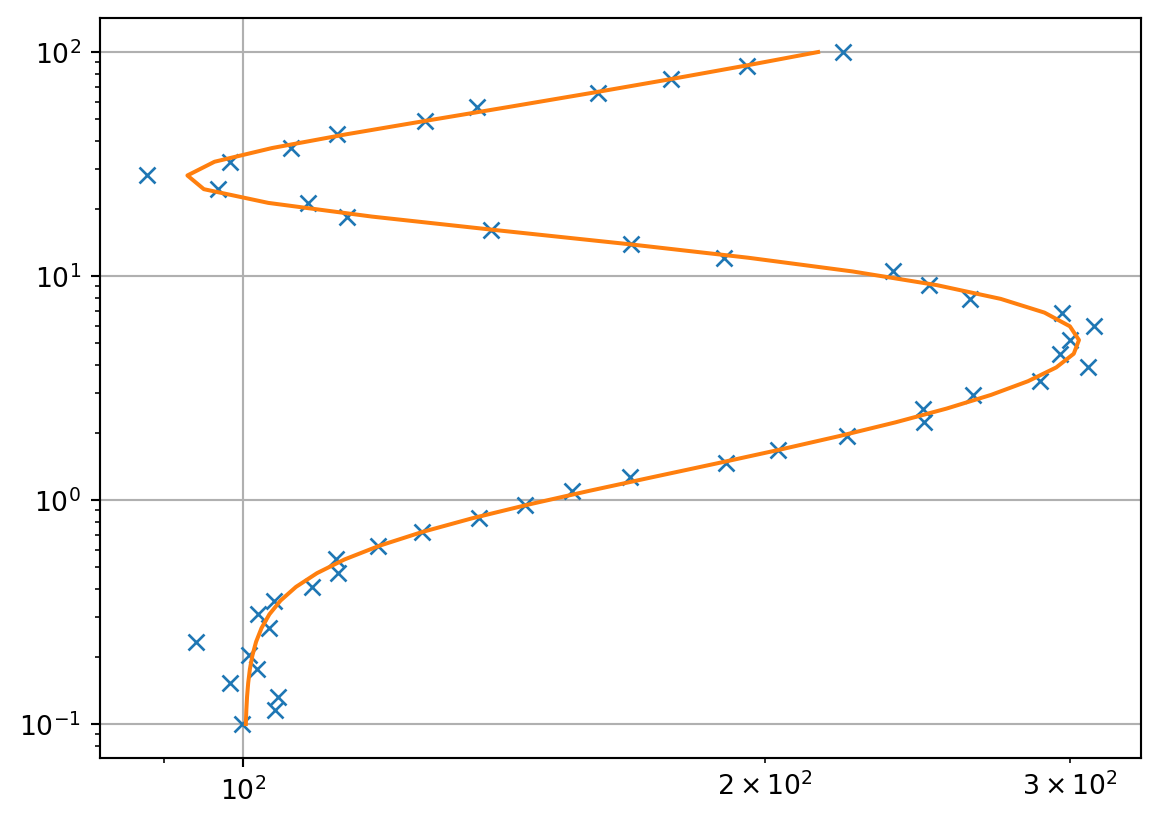
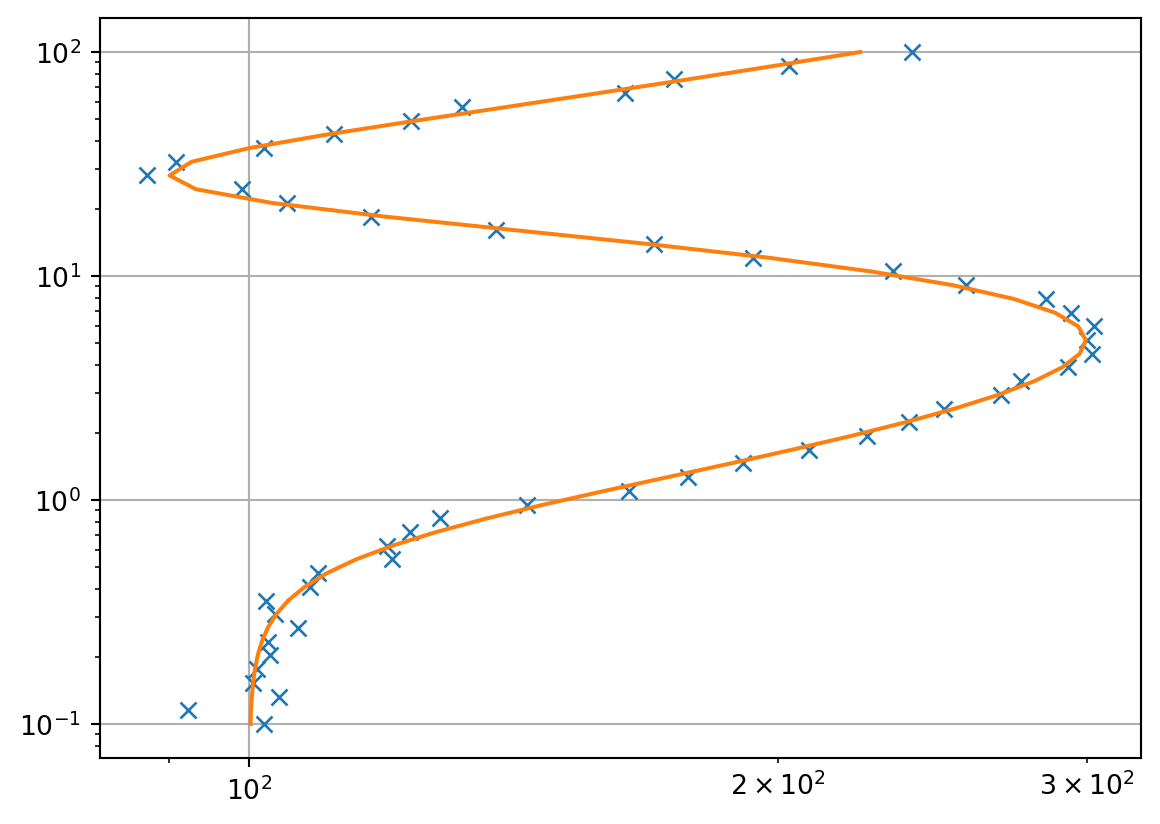
WIP

diff --git a/docs/index.html b/docs/index.html
@@ -1,5 +1,5 @@
 <!DOCTYPE html>
-<html xmlns="http://www.w3.org/1999/xhtml" lang="de" xml:lang="de"><head>
+<html xmlns="http://www.w3.org/1999/xhtml" lang="en" xml:lang="en"><head>
 
 <meta charset="utf-8">
 <meta name="generator" content="quarto-1.4.330">
@@ -7,6 +7,7 @@
 <meta name="viewport" content="width=device-width, initial-scale=1.0, user-scalable=yes">
 
 <meta name="author" content="Dr.&nbsp;Ralph-Uwe Börner">
+<meta name="dcterms.date" content="2023-08-23">
 
 <title>Potential Theory</title>
 <style>
@@ -87,16 +88,16 @@ pre > code.sourceCode > span > a:first-child::before { text-decoration: underlin
     "s"
   ],
   "language": {
-    "search-no-results-text": "Keine Treffer",
-    "search-matching-documents-text": "Treffer",
-    "search-copy-link-title": "Link in die Suche kopieren",
-    "search-hide-matches-text": "Zusätzliche Treffer verbergen",
-    "search-more-match-text": "weitere Treffer in diesem Dokument",
-    "search-more-matches-text": "weitere Treffer in diesem Dokument",
-    "search-clear-button-title": "Zurücksetzen",
-    "search-detached-cancel-button-title": "Abbrechen",
-    "search-submit-button-title": "Abschicken",
-    "search-label": "Suchen"
+    "search-no-results-text": "No results",
+    "search-matching-documents-text": "matching documents",
+    "search-copy-link-title": "Copy link to search",
+    "search-hide-matches-text": "Hide additional matches",
+    "search-more-match-text": "more match in this document",
+    "search-more-matches-text": "more matches in this document",
+    "search-clear-button-title": "Clear",
+    "search-detached-cancel-button-title": "Cancel",
+    "search-submit-button-title": "Submit",
+    "search-label": "Search"
   }
 }</script>
 
@@ -110,11 +111,11 @@ pre > code.sourceCode > span > a:first-child::before { text-decoration: underlin
   <header id="quarto-header" class="headroom fixed-top">
   <nav class="quarto-secondary-nav">
     <div class="container-fluid d-flex">
-      <button type="button" class="quarto-btn-toggle btn" data-bs-toggle="collapse" data-bs-target="#quarto-sidebar,#quarto-sidebar-glass" aria-controls="quarto-sidebar" aria-expanded="false" aria-label="Seitenleiste umschalten" onclick="if (window.quartoToggleHeadroom) { window.quartoToggleHeadroom(); }">
+      <button type="button" class="quarto-btn-toggle btn" data-bs-toggle="collapse" data-bs-target="#quarto-sidebar,#quarto-sidebar-glass" aria-controls="quarto-sidebar" aria-expanded="false" aria-label="Toggle sidebar navigation" onclick="if (window.quartoToggleHeadroom) { window.quartoToggleHeadroom(); }">
         <i class="bi bi-layout-text-sidebar-reverse"></i>
       </button>
         <nav class="quarto-page-breadcrumbs" aria-label="breadcrumb"><ol class="breadcrumb"><li class="breadcrumb-item"><a href="./index.html"><span class="chapter-number">1</span>&nbsp; <span class="chapter-title">Potential Theory</span></a></li></ol></nav>
-        <a class="flex-grow-1" role="button" data-bs-toggle="collapse" data-bs-target="#quarto-sidebar,#quarto-sidebar-glass" aria-controls="quarto-sidebar" aria-expanded="false" aria-label="Seitenleiste umschalten" onclick="if (window.quartoToggleHeadroom) { window.quartoToggleHeadroom(); }">      
+        <a class="flex-grow-1" role="button" data-bs-toggle="collapse" data-bs-target="#quarto-sidebar,#quarto-sidebar-glass" aria-controls="quarto-sidebar" aria-expanded="false" aria-label="Toggle sidebar navigation" onclick="if (window.quartoToggleHeadroom) { window.quartoToggleHeadroom(); }">      
         </a>
       <button type="button" class="btn quarto-search-button" aria-label="" onclick="window.quartoOpenSearch();">
         <i class="bi bi-search"></i>
@@ -133,7 +134,7 @@ pre > code.sourceCode > span > a:first-child::before { text-decoration: underlin
       </div>
         <div class="mt-2 flex-shrink-0 align-items-center">
         <div class="sidebar-search">
-        <div id="quarto-search" class="" title="Suchen"></div>
+        <div id="quarto-search" class="" title="Search"></div>
         </div>
         </div>
     <div class="sidebar-menu-container"> 
@@ -169,16 +170,16 @@ pre > code.sourceCode > span > a:first-child::before { text-decoration: underlin
 <div class="quarto-title-meta">
 
     <div>
-    <div class="quarto-title-meta-heading">Autor:in</div>
+    <div class="quarto-title-meta-heading">Author</div>
     <div class="quarto-title-meta-contents">
              <p>Dr.&nbsp;Ralph-Uwe Börner </p>
           </div>
   </div>
     
     <div>
-    <div class="quarto-title-meta-heading">Veröffentlichungsdatum</div>
+    <div class="quarto-title-meta-heading">Published</div>
     <div class="quarto-title-meta-contents">
-      <p class="date">23. August 2023</p>
+      <p class="date">August 23, 2023</p>
     </div>
   </div>
   
@@ -190,14 +191,14 @@ pre > code.sourceCode > span > a:first-child::before { text-decoration: underlin
 </header>
 
 <p>This is a Quarto book.</p>
-<div id="ee1986c1" class="cell" data-execution_count="1">
+<div id="87edc117" class="cell" data-execution_count="1">
 <div class="sourceCode cell-code" id="cb1"><pre class="sourceCode python code-with-copy"><code class="sourceCode python"><span id="cb1-1"><a href="#cb1-1" aria-hidden="true" tabindex="-1"></a><span class="im">import</span> numpy <span class="im">as</span> np</span>
 <span id="cb1-2"><a href="#cb1-2" aria-hidden="true" tabindex="-1"></a><span class="im">import</span> matplotlib.pyplot <span class="im">as</span> plt</span>
 <span id="cb1-3"><a href="#cb1-3" aria-hidden="true" tabindex="-1"></a><span class="im">import</span> pygimli <span class="im">as</span> pg</span>
 <span id="cb1-4"><a href="#cb1-4" aria-hidden="true" tabindex="-1"></a><span class="im">from</span> pygimli.frameworks.lsqrinversion <span class="im">import</span> LSQRInversion</span>
-<span id="cb1-5"><a href="#cb1-5" aria-hidden="true" tabindex="-1"></a><span class="im">from</span> pygimli.physics.ert <span class="im">import</span> VESModelling</span></code><button title="In die Zwischenablage kopieren" class="code-copy-button"><i class="bi"></i></button></pre></div>
+<span id="cb1-5"><a href="#cb1-5" aria-hidden="true" tabindex="-1"></a><span class="im">from</span> pygimli.physics.ert <span class="im">import</span> VESModelling</span></code><button title="Copy to Clipboard" class="code-copy-button"><i class="bi"></i></button></pre></div>
 </div>
-<div id="4a5e7f06" class="cell" data-execution_count="2">
+<div id="9180387e" class="cell" data-execution_count="2">
 <div class="sourceCode cell-code" id="cb2"><pre class="sourceCode python code-with-copy"><code class="sourceCode python"><span id="cb2-1"><a href="#cb2-1" aria-hidden="true" tabindex="-1"></a>nlay <span class="op">=</span> <span class="dv">4</span></span>
 <span id="cb2-2"><a href="#cb2-2" aria-hidden="true" tabindex="-1"></a>lam <span class="op">=</span> <span class="fl">200.0</span></span>
 <span id="cb2-3"><a href="#cb2-3" aria-hidden="true" tabindex="-1"></a>errPerc <span class="op">=</span> <span class="fl">3.0</span></span>
@@ -208,12 +209,12 @@ pre > code.sourceCode > span > a:first-child::before { text-decoration: underlin
 <span id="cb2-8"><a href="#cb2-8" aria-hidden="true" tabindex="-1"></a>synthk <span class="op">=</span> [<span class="fl">0.5</span>, <span class="fl">3.5</span>, <span class="fl">6.</span>]  <span class="co"># synthetic thickness (nlay-th layer is infinite)</span></span>
 <span id="cb2-9"><a href="#cb2-9" aria-hidden="true" tabindex="-1"></a>rhoa <span class="op">=</span> f(synthk<span class="op">+</span>synres)</span>
 <span id="cb2-10"><a href="#cb2-10" aria-hidden="true" tabindex="-1"></a>rhoa <span class="op">=</span> rhoa <span class="op">*</span> (pg.randn(<span class="bu">len</span>(rhoa)) <span class="op">*</span> errPerc <span class="op">/</span> <span class="fl">100.</span> <span class="op">+</span> <span class="fl">1.</span>)</span>
-<span id="cb2-11"><a href="#cb2-11" aria-hidden="true" tabindex="-1"></a>pg.plt.loglog(rhoa, ab2, <span class="st">"x-"</span>)<span class="op">;</span></span></code><button title="In die Zwischenablage kopieren" class="code-copy-button"><i class="bi"></i></button></pre></div>
+<span id="cb2-11"><a href="#cb2-11" aria-hidden="true" tabindex="-1"></a>pg.plt.loglog(rhoa, ab2, <span class="st">"x-"</span>)<span class="op">;</span></span></code><button title="Copy to Clipboard" class="code-copy-button"><i class="bi"></i></button></pre></div>
 <div class="cell-output cell-output-display">
 <p><img src="index_files/figure-html/cell-3-output-1.png" width="580" height="412"></p>
 </div>
 </div>
-<div id="d4f74f87" class="cell" data-execution_count="3">
+<div id="846691f0" class="cell" data-execution_count="3">
 <div class="sourceCode cell-code" id="cb3"><pre class="sourceCode python code-with-copy"><code class="sourceCode python"><span id="cb3-1"><a href="#cb3-1" aria-hidden="true" tabindex="-1"></a>tLog <span class="op">=</span> pg.trans.TransLog()</span>
 <span id="cb3-2"><a href="#cb3-2" aria-hidden="true" tabindex="-1"></a>inv <span class="op">=</span> LSQRInversion(fop<span class="op">=</span>f, verbose<span class="op">=</span><span class="va">False</span>)</span>
 <span id="cb3-3"><a href="#cb3-3" aria-hidden="true" tabindex="-1"></a>inv.LSQRiter <span class="op">=</span> <span class="dv">20</span></span>
@@ -233,57 +234,55 @@ pre > code.sourceCode > span > a:first-child::before { text-decoration: underlin
 <span id="cb3-17"><a href="#cb3-17" aria-hidden="true" tabindex="-1"></a>inv.setParameterConstraints(G, c, <span class="dv">100</span>)</span>
 <span id="cb3-18"><a href="#cb3-18" aria-hidden="true" tabindex="-1"></a>model2 <span class="op">=</span> inv.run(rhoa, pg.Vector(<span class="bu">len</span>(rhoa), errPerc<span class="op">/</span><span class="dv">100</span>), lam<span class="op">=</span><span class="dv">1000</span>, startModel<span class="op">=</span>startModel)</span>
 <span id="cb3-19"><a href="#cb3-19" aria-hidden="true" tabindex="-1"></a><span class="bu">print</span>(model2)</span>
-<span id="cb3-20"><a href="#cb3-20" aria-hidden="true" tabindex="-1"></a><span class="bu">print</span>(inv.chi2(), inv.relrms(), pg.<span class="bu">sum</span>(inv.model[:nlay<span class="op">-</span><span class="dv">1</span>]))</span></code><button title="In die Zwischenablage kopieren" class="code-copy-button"><i class="bi"></i></button></pre></div>
+<span id="cb3-20"><a href="#cb3-20" aria-hidden="true" tabindex="-1"></a><span class="bu">print</span>(inv.chi2(), inv.relrms(), pg.<span class="bu">sum</span>(inv.model[:nlay<span class="op">-</span><span class="dv">1</span>]))</span></code><button title="Copy to Clipboard" class="code-copy-button"><i class="bi"></i></button></pre></div>
 <div class="cell-output cell-output-stderr">
-<pre><code>23/08/23 - 13:00:58 - pyGIMLi - WARNING - Multiprocess Jacobian currently unavailable for Win32 and Mac.
-23/08/23 - 13:00:58 - pyGIMLi - WARNING - Multiprocess Jacobian currently unavailable for Win32 and Mac.
-23/08/23 - 13:00:58 - pyGIMLi - WARNING - Multiprocess Jacobian currently unavailable for Win32 and Mac.
-23/08/23 - 13:00:58 - pyGIMLi - WARNING - Multiprocess Jacobian currently unavailable for Win32 and Mac.
-23/08/23 - 13:00:58 - pyGIMLi - WARNING - Multiprocess Jacobian currently unavailable for Win32 and Mac.
-23/08/23 - 13:00:58 - pyGIMLi - WARNING - Multiprocess Jacobian currently unavailable for Win32 and Mac.
-23/08/23 - 13:00:58 - pyGIMLi - WARNING - Multiprocess Jacobian currently unavailable for Win32 and Mac.
-23/08/23 - 13:00:58 - pyGIMLi - WARNING - Multiprocess Jacobian currently unavailable for Win32 and Mac.
-23/08/23 - 13:00:58 - pyGIMLi - WARNING - Multiprocess Jacobian currently unavailable for Win32 and Mac.
-23/08/23 - 13:00:58 - pyGIMLi - WARNING - Multiprocess Jacobian currently unavailable for Win32 and Mac.
-23/08/23 - 13:00:59 - pyGIMLi - WARNING - Multiprocess Jacobian currently unavailable for Win32 and Mac.
-23/08/23 - 13:00:59 - pyGIMLi - WARNING - Multiprocess Jacobian currently unavailable for Win32 and Mac.
-23/08/23 - 13:00:59 - pyGIMLi - WARNING - Multiprocess Jacobian currently unavailable for Win32 and Mac.
-23/08/23 - 13:00:59 - pyGIMLi - WARNING - Multiprocess Jacobian currently unavailable for Win32 and Mac.
-23/08/23 - 13:00:59 - pyGIMLi - WARNING - Multiprocess Jacobian currently unavailable for Win32 and Mac.
-23/08/23 - 13:00:59 - pyGIMLi - WARNING - Multiprocess Jacobian currently unavailable for Win32 and Mac.
-23/08/23 - 13:00:59 - pyGIMLi - WARNING - Multiprocess Jacobian currently unavailable for Win32 and Mac.
-23/08/23 - 13:00:59 - pyGIMLi - WARNING - Multiprocess Jacobian currently unavailable for Win32 and Mac.
-23/08/23 - 13:00:59 - pyGIMLi - WARNING - Multiprocess Jacobian currently unavailable for Win32 and Mac.
-23/08/23 - 13:00:59 - pyGIMLi - WARNING - Multiprocess Jacobian currently unavailable for Win32 and Mac.</code></pre>
+<pre><code>23/08/23 - 13:09:13 - pyGIMLi - WARNING - Multiprocess Jacobian currently unavailable for Win32 and Mac.
+23/08/23 - 13:09:13 - pyGIMLi - WARNING - Multiprocess Jacobian currently unavailable for Win32 and Mac.
+23/08/23 - 13:09:13 - pyGIMLi - WARNING - Multiprocess Jacobian currently unavailable for Win32 and Mac.
+23/08/23 - 13:09:13 - pyGIMLi - WARNING - Multiprocess Jacobian currently unavailable for Win32 and Mac.
+23/08/23 - 13:09:13 - pyGIMLi - WARNING - Multiprocess Jacobian currently unavailable for Win32 and Mac.
+23/08/23 - 13:09:13 - pyGIMLi - WARNING - Multiprocess Jacobian currently unavailable for Win32 and Mac.
+23/08/23 - 13:09:13 - pyGIMLi - WARNING - Multiprocess Jacobian currently unavailable for Win32 and Mac.
+23/08/23 - 13:09:14 - pyGIMLi - WARNING - Multiprocess Jacobian currently unavailable for Win32 and Mac.
+23/08/23 - 13:09:14 - pyGIMLi - WARNING - Multiprocess Jacobian currently unavailable for Win32 and Mac.
+23/08/23 - 13:09:14 - pyGIMLi - WARNING - Multiprocess Jacobian currently unavailable for Win32 and Mac.
+23/08/23 - 13:09:14 - pyGIMLi - WARNING - Multiprocess Jacobian currently unavailable for Win32 and Mac.
+23/08/23 - 13:09:14 - pyGIMLi - WARNING - Multiprocess Jacobian currently unavailable for Win32 and Mac.
+23/08/23 - 13:09:14 - pyGIMLi - WARNING - Multiprocess Jacobian currently unavailable for Win32 and Mac.
+23/08/23 - 13:09:14 - pyGIMLi - WARNING - Multiprocess Jacobian currently unavailable for Win32 and Mac.
+23/08/23 - 13:09:14 - pyGIMLi - WARNING - Multiprocess Jacobian currently unavailable for Win32 and Mac.
+23/08/23 - 13:09:14 - pyGIMLi - WARNING - Multiprocess Jacobian currently unavailable for Win32 and Mac.
+23/08/23 - 13:09:14 - pyGIMLi - WARNING - Multiprocess Jacobian currently unavailable for Win32 and Mac.
+23/08/23 - 13:09:15 - pyGIMLi - WARNING - Multiprocess Jacobian currently unavailable for Win32 and Mac.</code></pre>
 </div>
 <div class="cell-output cell-output-stdout">
 <pre><code>
 
-7 [0.511383248793946, 3.111524211048805, 10.500624609309906, 100.23625759956695, 521.1846840075258, 36.86284124493713, 620.2219676473762]
-0.8264534465846244 2.739943753698084 14.123532069152656
+7 [0.4937320819915976, 3.370781257178004, 11.863253437946202, 100.244873681884, 492.5077484604116, 37.28200242608787, 1045.9704195687327]
+0.9116070650973334 2.8871842012948012 15.727766777115804
 
 
-7 [0.502877125989404, 3.3615625992359974, 6.158761328603345, 100.20956538400078, 504.5440801193752, 22.35255841570603, 568.6713349806693]
-0.8416792083783732 2.76455887296661 10.023201053828746</code></pre>
+7 [0.48251903575283134, 3.774936430815615, 5.819316774128112, 100.07046215540682, 462.4530830287375, 18.878951248500222, 894.798506720426]
+0.9810996731541719 2.9790719041838205 10.07677224069656</code></pre>
 </div>
 </div>
-<div id="03369c31" class="cell" data-execution_count="4">
+<div id="bc0b6b79" class="cell" data-execution_count="4">
 <div class="sourceCode cell-code" id="cb6"><pre class="sourceCode python code-with-copy"><code class="sourceCode python"><span id="cb6-1"><a href="#cb6-1" aria-hidden="true" tabindex="-1"></a>fig, ax <span class="op">=</span> pg.plt.subplots()</span>
 <span id="cb6-2"><a href="#cb6-2" aria-hidden="true" tabindex="-1"></a>ax.loglog(rhoa, ab2, <span class="st">"x"</span>)</span>
 <span id="cb6-3"><a href="#cb6-3" aria-hidden="true" tabindex="-1"></a>ax.loglog(inv.response, ab2, <span class="st">"-"</span>)</span>
-<span id="cb6-4"><a href="#cb6-4" aria-hidden="true" tabindex="-1"></a>ax.grid(<span class="va">True</span>)</span></code><button title="In die Zwischenablage kopieren" class="code-copy-button"><i class="bi"></i></button></pre></div>
+<span id="cb6-4"><a href="#cb6-4" aria-hidden="true" tabindex="-1"></a>ax.grid(<span class="va">True</span>)</span></code><button title="Copy to Clipboard" class="code-copy-button"><i class="bi"></i></button></pre></div>
 <div class="cell-output cell-output-display">
 <p><img src="index_files/figure-html/cell-5-output-1.png" width="580" height="412"></p>
 </div>
 </div>
-<div id="ce7bb526" class="cell" data-execution_count="5">
+<div id="ae66a6a0" class="cell" data-execution_count="5">
 <div class="sourceCode cell-code" id="cb7"><pre class="sourceCode python code-with-copy"><code class="sourceCode python"><span id="cb7-1"><a href="#cb7-1" aria-hidden="true" tabindex="-1"></a>fig, ax <span class="op">=</span> pg.plt.subplots()</span>
 <span id="cb7-2"><a href="#cb7-2" aria-hidden="true" tabindex="-1"></a>pg.viewer.mpl.drawModel1D(ax, synthk, synres, plot<span class="op">=</span><span class="st">"semilogx"</span>, label<span class="op">=</span><span class="st">"synth"</span>)</span>
 <span id="cb7-3"><a href="#cb7-3" aria-hidden="true" tabindex="-1"></a>pg.viewer.mpl.drawModel1D(ax, model<span class="op">=</span>model1, label<span class="op">=</span><span class="st">"unconstrained"</span>)</span>
 <span id="cb7-4"><a href="#cb7-4" aria-hidden="true" tabindex="-1"></a>pg.viewer.mpl.drawModel1D(ax, model<span class="op">=</span>model2, label<span class="op">=</span><span class="st">"constrained"</span>)</span>
 <span id="cb7-5"><a href="#cb7-5" aria-hidden="true" tabindex="-1"></a>ax.set_ylim(<span class="dv">15</span>, <span class="dv">0</span>)</span>
 <span id="cb7-6"><a href="#cb7-6" aria-hidden="true" tabindex="-1"></a>ax.grid(<span class="va">True</span>)</span>
-<span id="cb7-7"><a href="#cb7-7" aria-hidden="true" tabindex="-1"></a>ax.legend()<span class="op">;</span></span></code><button title="In die Zwischenablage kopieren" class="code-copy-button"><i class="bi"></i></button></pre></div>
+<span id="cb7-7"><a href="#cb7-7" aria-hidden="true" tabindex="-1"></a>ax.legend()<span class="op">;</span></span></code><button title="Copy to Clipboard" class="code-copy-button"><i class="bi"></i></button></pre></div>
 <div class="cell-output cell-output-display">
 <p><img src="index_files/figure-html/cell-6-output-1.png" width="585" height="438"></p>
 </div>
@@ -346,12 +345,12 @@ window.document.addEventListener("DOMContentLoaded", function (event) {
     // flash "checked"
     button.classList.add('code-copy-button-checked');
     var currentTitle = button.getAttribute("title");
-    button.setAttribute("title", "Kopiert");
+    button.setAttribute("title", "Copied!");
     let tooltip;
     if (window.bootstrap) {
       button.setAttribute("data-bs-toggle", "tooltip");
       button.setAttribute("data-bs-placement", "left");
-      button.setAttribute("data-bs-title", "Kopiert");
+      button.setAttribute("data-bs-title", "Copied!");
       tooltip = new bootstrap.Tooltip(button, 
         { trigger: "manual", 
           customClass: "code-copy-button-tooltip",
